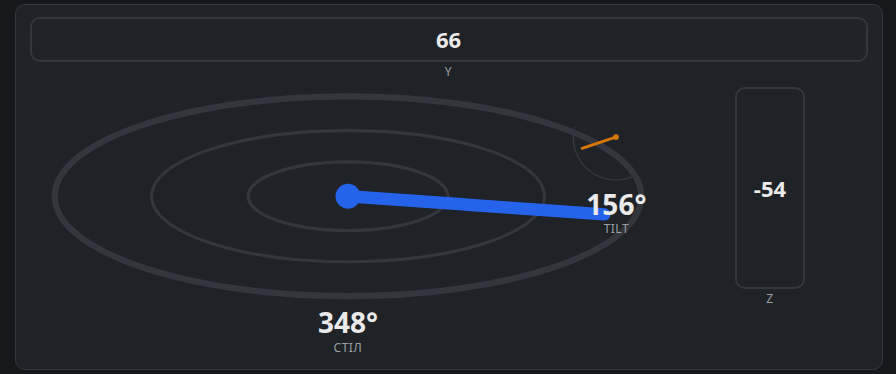
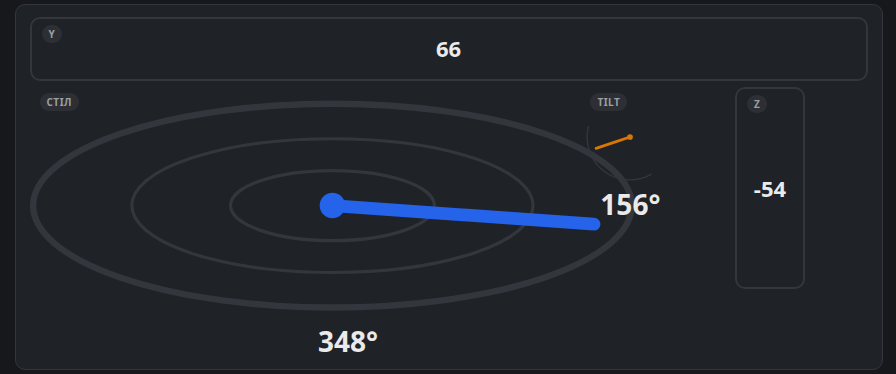
Replace jog widget captions with corner badges
The Y/Z/Tilt/Стіл captions sat on their own line below each widget's
value, which read as cluttered. Replaced them with a small pill badge
overlaid on each widget's own top-left corner instead — same label,
no extra row, and it frees up a little more height for the ellipse
(one less flex row inside dial-table-wrap's column). Updated the
README screenshot to match.

diff --git a/web/index.html b/web/index.html
@@ -56,8 +56,13 @@
   .dial-widget { display: flex; flex-direction: column; align-items: center; gap: 2px; user-select: none; }
   .dial-widget svg { touch-action: none; cursor: ns-resize; }
   .dial-value { font-size: 28px; font-weight: 700; font-variant-numeric: tabular-nums; line-height: 1.1; }
-  .dial-label { color: var(--muted); font-size: 12px; text-transform: uppercase; letter-spacing: .04em; }
-  .axis-box { border: 2px solid var(--border); border-radius: 10px;
+  /* Small pill overlaid on the widget's own corner instead of a caption line taking up
+     its own row below — same info, less visual clutter. */
+  .dial-badge { position: absolute; top: 6px; left: 10px; font-size: 10px; font-weight: 700;
+    text-transform: uppercase; letter-spacing: .05em; color: var(--muted);
+    background: rgba(127,127,127,.15); padding: 2px 7px; border-radius: 999px;
+    pointer-events: none; line-height: 1.4; }
+  .axis-box { position: relative; border: 2px solid var(--border); border-radius: 10px;
     display: flex; align-items: center; justify-content: center; cursor: ns-resize;
     background: var(--card); touch-action: none; }
   .axis-box .dial-value { font-size: 22px; }
@@ -90,7 +95,7 @@
      below leave available. Shifted left a touch so its tip clears the tilt circle. */
   .dial-table-wrap svg { width: auto; flex: 1 1 auto; min-height: 70px; max-width: 100%;
     display: block; transform: translateX(-16px); }
-  .dial-table-wrap .dial-value, .dial-table-wrap .dial-label { flex: 0 0 auto; }
+  .dial-table-wrap .dial-value { flex: 0 0 auto; }
 </style>
 </head>
 <body>
@@ -128,17 +133,22 @@
   <div class="card" style="margin-top:12px;">
     <div class="dials-layout" title="Наведіть курсор на елемент і крутіть коліщатко миші, щоб перемістити.">
       <div class="dial-widget dial-y-wrap">
-        <div class="axis-box" id="yBox"><div class="dial-value" id="yValue">—</div></div>
-        <div class="dial-label">Y</div>
+        <div class="axis-box" id="yBox">
+          <span class="dial-badge">Y</span>
+          <div class="dial-value" id="yValue">—</div>
+        </div>
       </div>
 
       <div class="dial-widget dial-z-wrap">
-        <div class="axis-box" id="zBox"><div class="dial-value" id="zValue">—</div></div>
-        <div class="dial-label">Z</div>
+        <div class="axis-box" id="zBox">
+          <span class="dial-badge">Z</span>
+          <div class="dial-value" id="zValue">—</div>
+        </div>
       </div>
 
       <div class="dial-main">
         <div class="dial-widget dial-servo-wrap">
+          <span class="dial-badge">Tilt</span>
           <svg id="servoSvg" viewBox="0 0 140 140">
             <path id="servoTrack" fill="none" stroke="var(--border)" stroke-width="2"/>
             <line id="servoNeedle" x1="70" y1="70" x2="70" y2="70" stroke="var(--warn)"
@@ -146,10 +156,10 @@
             <circle cx="70" cy="70" r="4" fill="var(--warn)"/>
           </svg>
           <div class="dial-value" id="servoValue">—</div>
-          <div class="dial-label">Tilt</div>
         </div>
 
         <div class="dial-widget dial-table-wrap">
+          <span class="dial-badge">Стіл</span>
           <svg id="tableSvg" viewBox="0 0 200 70" preserveAspectRatio="xMidYMid meet">
             <ellipse cx="100" cy="35" rx="94" ry="32" fill="none" stroke="var(--border)" stroke-width="2"/>
             <ellipse cx="100" cy="35" rx="63" ry="21" fill="none" stroke="var(--border)" stroke-width="1"/>
@@ -159,7 +169,6 @@
             <circle cx="100" cy="35" r="4" fill="var(--accent)"/>
           </svg>
           <div class="dial-value" id="tableValue">—</div>
-          <div class="dial-label">Стіл</div>
         </div>
       </div>
     </div>
